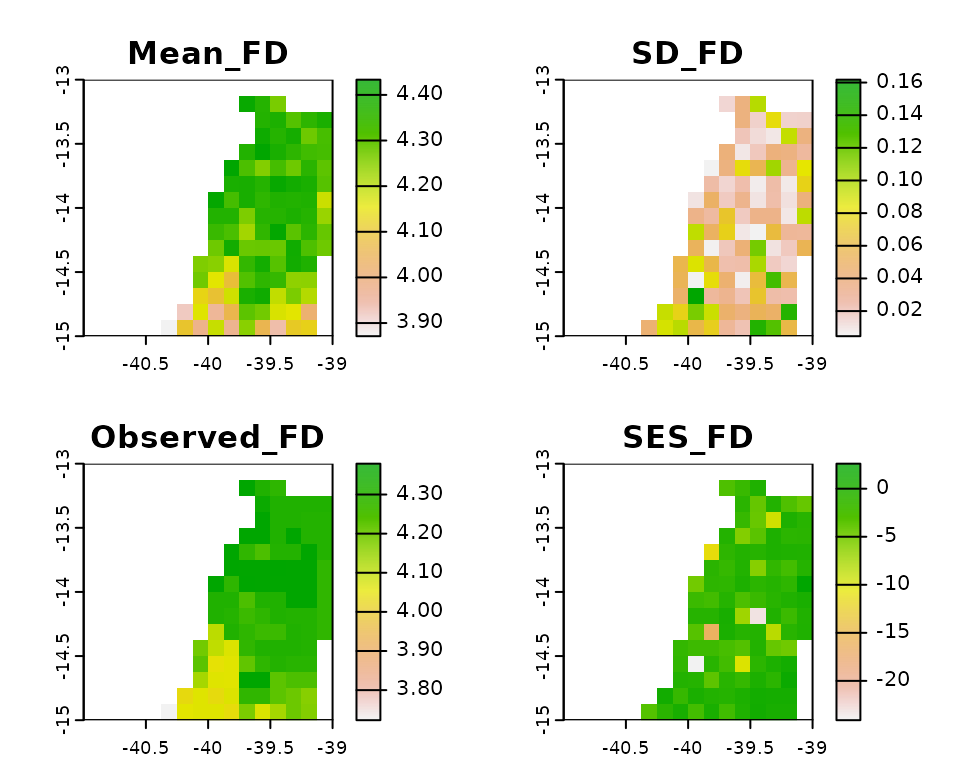
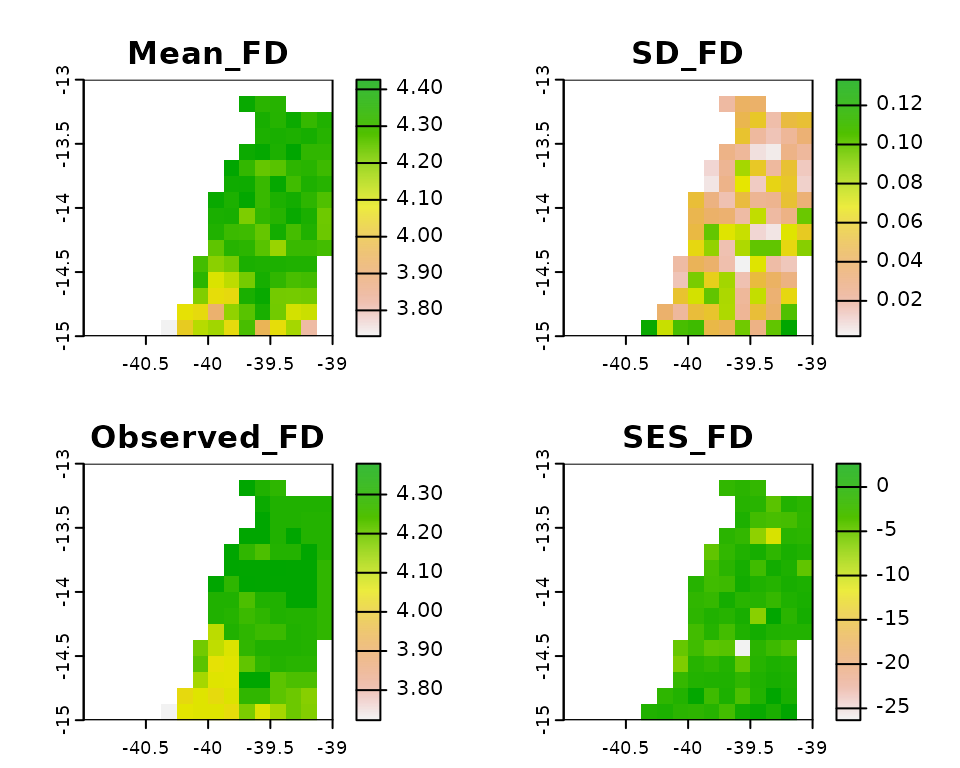
Deploying to gh-pages from @ flaviomoc/divraster@d5d8385caf56580e73cb6f5c730152f3abba8357 🚀

diff --git a/articles/DMSD-vignette.html b/articles/DMSD-vignette.html
@@ -260,9 +260,9 @@ PD alpha diversity.</p>
 <span><span class="co">#&gt; extent      : -41, -39, -15, -13  (xmin, xmax, ymin, ymax)</span></span>
 <span><span class="co">#&gt; coord. ref. : lon/lat WGS 84 (EPSG:4326) </span></span>
 <span><span class="co">#&gt; source(s)   : memory</span></span>
-<span><span class="co">#&gt; names       :  Mean_FD,       SD_FD, Observed_FD,     SES_FD </span></span>
-<span><span class="co">#&gt; min values  : 3.871197, 0.004616728,    3.723151, -24.091779 </span></span>
-<span><span class="co">#&gt; max values  : 4.433349, 0.161764454,    4.378846,   2.604495</span></span>
+<span><span class="co">#&gt; names       :  Mean_FD,       SD_FD, Observed_FD,    SES_FD </span></span>
+<span><span class="co">#&gt; min values  : 3.729916, 0.001933018,    3.723151, -26.33626 </span></span>
+<span><span class="co">#&gt; max values  : 4.426241, 0.133159154,    4.378846,   2.63563</span></span>
 <span><span class="fu">terra</span><span class="fu">::</span><span class="fu"><a href="https://rdrr.io/pkg/terra/man/plot.html" class="external-link">plot</a></span><span class="op">(</span><span class="va">ses.fd</span>, main <span class="op">=</span> <span class="fu"><a href="https://rdrr.io/r/base/names.html" class="external-link">names</a></span><span class="op">(</span><span class="va">ses.fd</span><span class="op">)</span><span class="op">)</span></span></code></pre></div>
 <p><img src="DMSD-vignette_files/figure-html/unnamed-chunk-6-1.png" width="480" style="display: block; margin: auto;"></p>
 <div class="sourceCode" id="cb8"><pre class="downlit sourceCode r">
@@ -277,8 +277,8 @@ PD alpha diversity.</p>
 <span><span class="co">#&gt; coord. ref. : lon/lat WGS 84 (EPSG:4326) </span></span>
 <span><span class="co">#&gt; source(s)   : memory</span></span>
 <span><span class="co">#&gt; names       :  Mean_PD,      SD_PD, Observed_PD,    SES_PD </span></span>
-<span><span class="co">#&gt; min values  : 1662.878,  0.3636217,    1623.451, -9.329055 </span></span>
-<span><span class="co">#&gt; max values  : 1876.099, 67.2204891,    1880.676, 14.293620</span></span>
+<span><span class="co">#&gt; min values  : 1580.066,  0.9559517,    1623.451, -11.48032 </span></span>
+<span><span class="co">#&gt; max values  : 1875.098, 93.1774837,    1880.676,  14.11194</span></span>
 <span><span class="fu">terra</span><span class="fu">::</span><span class="fu"><a href="https://rdrr.io/pkg/terra/man/plot.html" class="external-link">plot</a></span><span class="op">(</span><span class="va">ses.pd</span>, main <span class="op">=</span> <span class="fu"><a href="https://rdrr.io/r/base/names.html" class="external-link">names</a></span><span class="op">(</span><span class="va">ses.pd</span><span class="op">)</span><span class="op">)</span></span></code></pre></div>
 <p><img src="DMSD-vignette_files/figure-html/unnamed-chunk-6-2.png" width="480" style="display: block; margin: auto;"></p>
 </div>

diff --git a/reference/spat.rand.html b/reference/spat.rand.html
@@ -139,9 +139,9 @@ a calling function.</p></dd>
 <span class="r-out co"><span class="r-pr">#&gt;</span> extent      : 0, 1, 0, 1  (xmin, xmax, ymin, ymax)</span>
 <span class="r-out co"><span class="r-pr">#&gt;</span> coord. ref. : lon/lat WGS 84 (EPSG:4326) </span>
 <span class="r-out co"><span class="r-pr">#&gt;</span> source(s)   : memory</span>
-<span class="r-out co"><span class="r-pr">#&gt;</span> names       :  Mean_PD,    SD_PD, Observed_PD,   SES_PD </span>
-<span class="r-out co"><span class="r-pr">#&gt;</span> min values  : 3.993586, 0.000000,    3.359948,     - ?  </span>
-<span class="r-out co"><span class="r-pr">#&gt;</span> max values  : 9.596136, 1.124112,   10.571964, 11.74531 </span>
+<span class="r-out co"><span class="r-pr">#&gt;</span> names       :   Mean_PD,      SD_PD, Observed_PD,    SES_PD </span>
+<span class="r-out co"><span class="r-pr">#&gt;</span> min values  :  3.848379, 0.03039687,    3.359948, -8.933597 </span>
+<span class="r-out co"><span class="r-pr">#&gt;</span> max values  : 10.082110, 1.22989314,   10.571964,  4.665621 </span>
 <span class="r-in"><span><span class="fu">spat.rand</span><span class="op">(</span><span class="va">x</span>, <span class="va">traits</span>, <span class="fl">3</span>, <span class="st">"site"</span><span class="op">)</span></span></span>
 <span class="r-out co"><span class="r-pr">#&gt;</span> class       : SpatRaster </span>
 <span class="r-out co"><span class="r-pr">#&gt;</span> dimensions  : 8, 8, 4  (nrow, ncol, nlyr)</span>
@@ -150,8 +150,8 @@ a calling function.</p></dd>
 <span class="r-out co"><span class="r-pr">#&gt;</span> coord. ref. : lon/lat WGS 84 (EPSG:4326) </span>
 <span class="r-out co"><span class="r-pr">#&gt;</span> source(s)   : memory</span>
 <span class="r-out co"><span class="r-pr">#&gt;</span> names       :   Mean_FD,     SD_FD, Observed_FD,    SES_FD </span>
-<span class="r-out co"><span class="r-pr">#&gt;</span> min values  : 0.3792177, 0.0165558,   0.2374052, -3.851825 </span>
-<span class="r-out co"><span class="r-pr">#&gt;</span> max values  : 1.1764308, 0.2091683,   1.2493508, 18.343095 </span>
+<span class="r-out co"><span class="r-pr">#&gt;</span> min values  : 0.3846142, 0.0177125,   0.2374052, -7.776747 </span>
+<span class="r-out co"><span class="r-pr">#&gt;</span> max values  : 1.1950896, 0.2294952,   1.2493508,  8.262023 </span>
 </code></pre></div>
     </div>
   </main><aside class="col-md-3"><nav id="toc"><h2>On this page</h2>

diff --git a/index.html b/index.html
@@ -78,8 +78,7 @@
 <img src="logo.png" class="logo" alt=""><h1 id="divraster">divraster<a class="anchor" aria-label="anchor" href="#divraster"></a>
 </h1>
 </div>
-<!-- badges: start -->
-
+<p>Viu os badges q coloquei no readme? <!-- badges: start --> <a href="https://cran.r-project.org/package=divraster" class="external-link"><img src="https://www.r-pkg.org/badges/version/divraster" alt="CRAN-status"></a> <a href="https://github.com/flaviomoc/divraster/actions/workflows/R-CMD-check.yaml" class="external-link"><img src="https://github.com/flaviomoc/divraster/actions/workflows/R-CMD-check.yaml/badge.svg" alt="R-CMD-check"></a> <a href="https://cran.r-project.org/package=divraster" class="external-link"><img src="http://cranlogs.r-pkg.org/badges/grand-total/divraster?color=green"></a> <a href="https://cran.r-project.org/package=divraster" class="external-link"><img src="http://cranlogs.r-pkg.org/badges/divraster?color=green"></a> <!-- badges: end --></p>
 <p>divraster calculates diversity patterns from raster data for taxonomic, functional, and phylogenetic dimensions. Spatial and temporal beta diversity can be partitioned into replacement and richness differences components. divraster also calculates standardize effect size for functional and phylogenetic alpha diversity and the average traits.</p>
 <div class="section level2">
 <h2 id="installation">Installation<a class="anchor" aria-label="anchor" href="#installation"></a>
@@ -151,12 +150,7 @@
 </ul>
 </div>
 
-<div class="dev-status">
-<h2 data-toc-skip>Dev status</h2>
-<ul class="list-unstyled">
-<li><a href="https://github.com/flaviomoc/DMSD/actions/workflows/R-CMD-check.yaml" class="external-link"><img src="https://github.com/flaviomoc/DMSD/actions/workflows/R-CMD-check.yaml/badge.svg" alt="R-CMD-check"></a></li>
-</ul>
-</div>
+
 
   </aside>
 </div>
